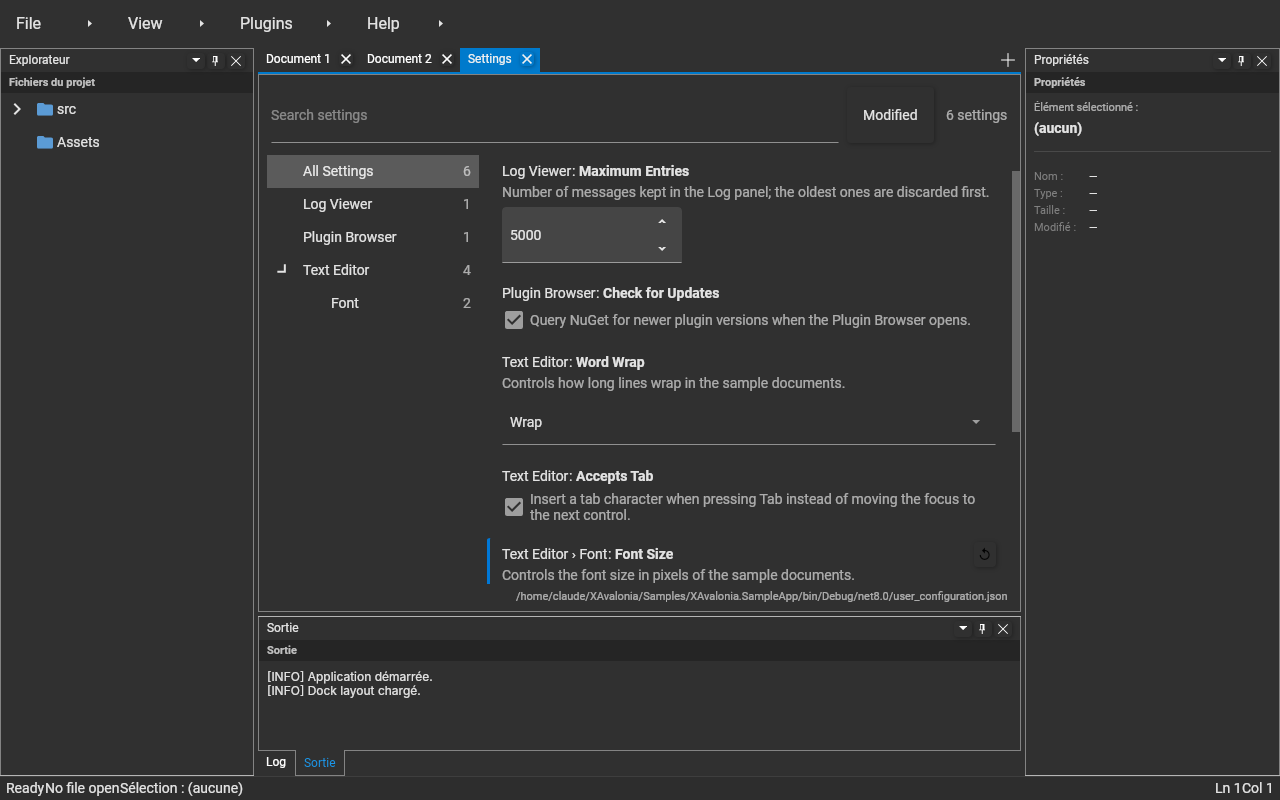
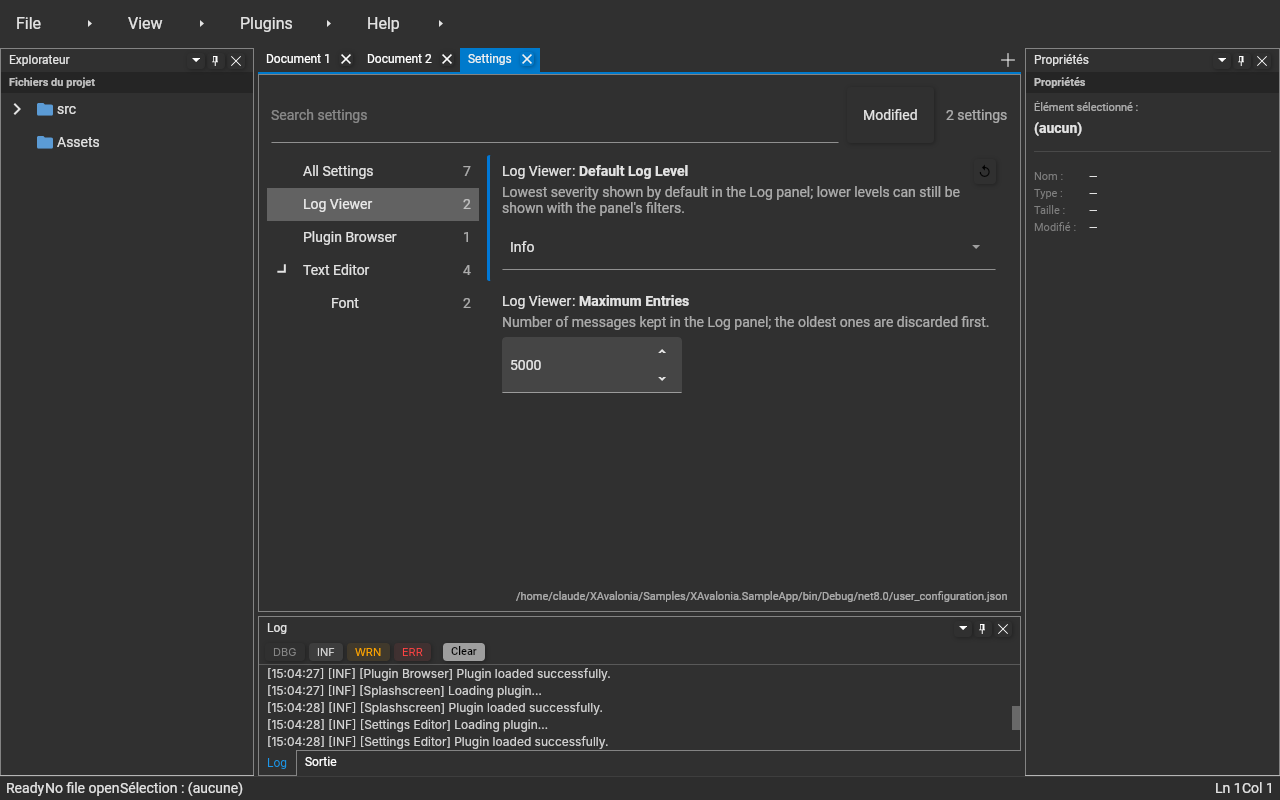
feat(sample): Log Viewer default log level as a user setting
LogViewer exposes [UserConfiguration("minimumLevel")] (LogLevel enum) that sets the
panel's level filters at startup and live when edited; the sample's
user_configuration.json sets it to Info as an example.

Claude-Session: https://claude.ai/code/session_01HqWH11DA5sKDSuE7Bsy7rV

diff --git a/Plugins/XAvalonia.LogViewer/LogViewerPlugin.cs b/Plugins/XAvalonia.LogViewer/LogViewerPlugin.cs
@@ -18,6 +18,13 @@ public sealed class LogViewerPlugin : IPlugin
         Minimum = 100, Maximum = 100000)]
     public int MaxEntries { get; set; } = 5000;
 
+    /// <summary>Lowest severity shown when the Log panel opens. Populated from <c>user_configuration.json → LogViewer → minimumLevel</c>.</summary>
+    [UserConfiguration("minimumLevel",
+        DisplayName = "Default Log Level",
+        Description = "Lowest severity shown by default in the Log panel; lower levels can still be shown with the panel's filters.",
+        Order = 10)]
+    public LogLevel MinimumLevel { get; set; } = LogLevel.Debug;
+
     /// <inheritdoc/>
     public string Id => "org.avaloniaui.shell.log-viewer";
 
@@ -53,6 +60,7 @@ public sealed class LogViewerPlugin : IPlugin
         lLog.LogDebug($"[{Name}] IToolPanelService acquired.");
 
         LogViewerViewModel lViewModel = new LogViewerViewModel(lLog) { MaxEntries = MaxEntries };
+        lViewModel.ShowLevelsFrom(MinimumLevel);
         lToolPanelService.RegisterPanel(new ToolPanelContribution(
             pId: "log-viewer",
             pTitle: "Log",
@@ -66,9 +74,15 @@ public sealed class LogViewerPlugin : IPlugin
         {
             lUserConfiguration.SettingChanged += (_, pArgs) =>
             {
-                if (pArgs.Setting.PluginId == Id)
+                if (pArgs.Setting.PluginId != Id)
                 {
-                    lViewModel.MaxEntries = MaxEntries;
+                    return;
+                }
+
+                lViewModel.MaxEntries = MaxEntries;
+                if (pArgs.Setting.Key == "minimumLevel")
+                {
+                    lViewModel.ShowLevelsFrom(MinimumLevel);
                 }
             };
         }

diff --git a/Plugins/XAvalonia.LogViewer/LogViewerViewModel.cs b/Plugins/XAvalonia.LogViewer/LogViewerViewModel.cs
@@ -60,6 +60,15 @@ public sealed class LogViewerViewModel : Tool
         }
     }
 
+    /// <summary>Shows the entries of <paramref name="pMinimumLevel"/> and above, hides the lower levels.</summary>
+    public void ShowLevelsFrom(LogLevel pMinimumLevel)
+    {
+        ShowDebug   = pMinimumLevel <= LogLevel.Debug;
+        ShowInfo    = pMinimumLevel <= LogLevel.Info;
+        ShowWarning = pMinimumLevel <= LogLevel.Warning;
+        ShowError   = true;
+    }
+
     /// <summary>Whether Debug-level entries are shown.</summary>
     public bool ShowDebug
     {
